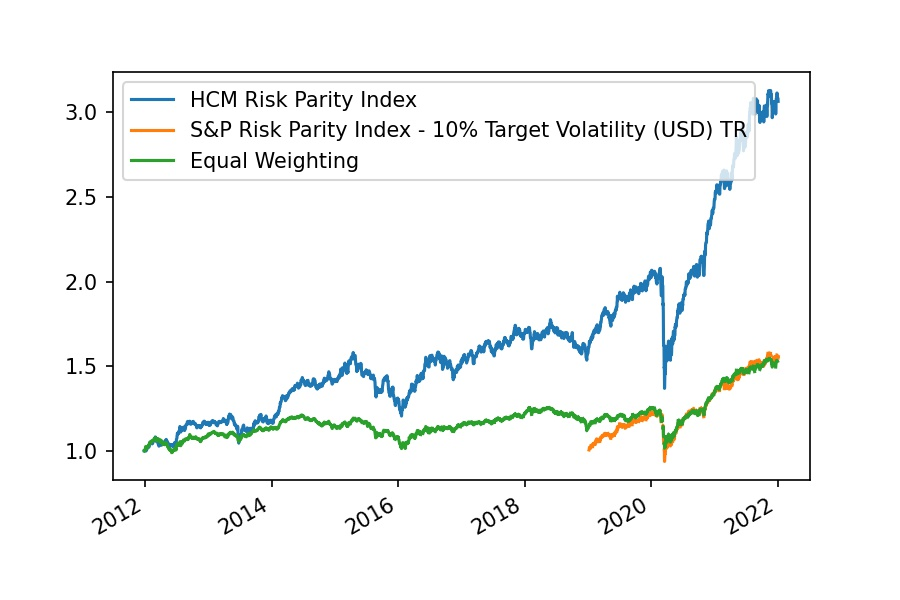
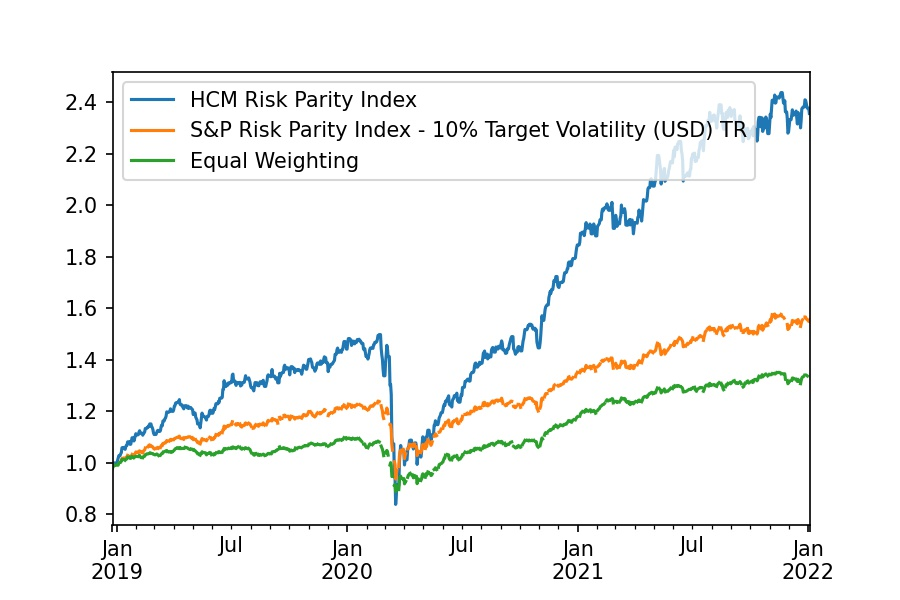
Summarize result

diff --git a/monthly_rebalancing.py b/monthly_rebalancing.py
@@ -9,7 +9,7 @@ from RiskParityPrimer import RiskParitySP
 tqdm.pandas(desc="Rebalancing")
 
 data_folder = '../data/'
-start_date = '2011-12-25'
+start_date = '2018-12-25'
 end_date = '2023-1-3'
 lag = 2
 RESULT_DIR = './result/'
@@ -64,7 +64,7 @@ if __name__ == '__main__':
     ax_left.plot(replicated_ret_cumulative, label='ret', color='r')
     ax_right.scatter(trader.leverage.index, trader.leverage.values, label='leverage', color='b')
     fig.legend(loc='upper right', bbox_to_anchor=(1,1), bbox_transform=ax_left.transAxes)
-#    plt.savefig(RESULT_DIR + f'img/{Path(__file__).stem} leverage.jpg')
+    plt.savefig(RESULT_DIR + f'img/{Path(__file__).stem} leverage.jpg')
 
     plt.show()
 
